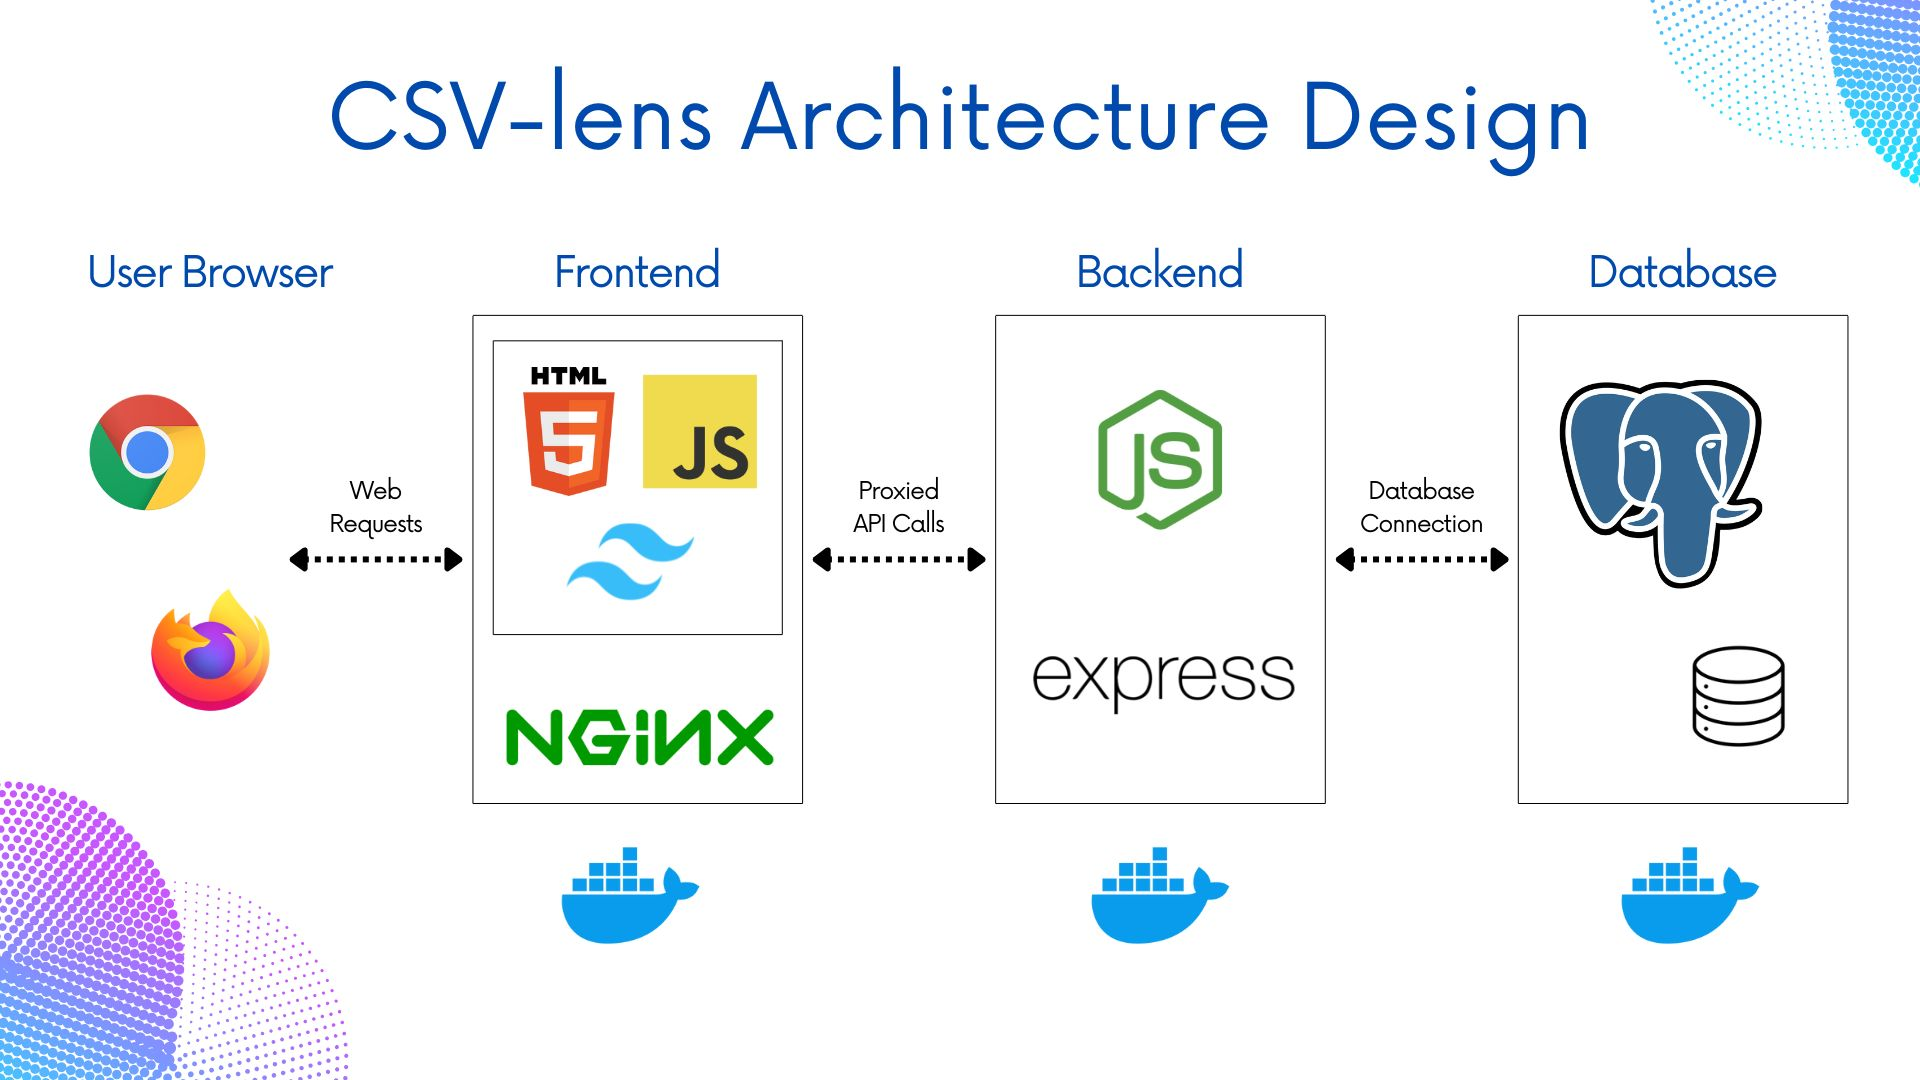
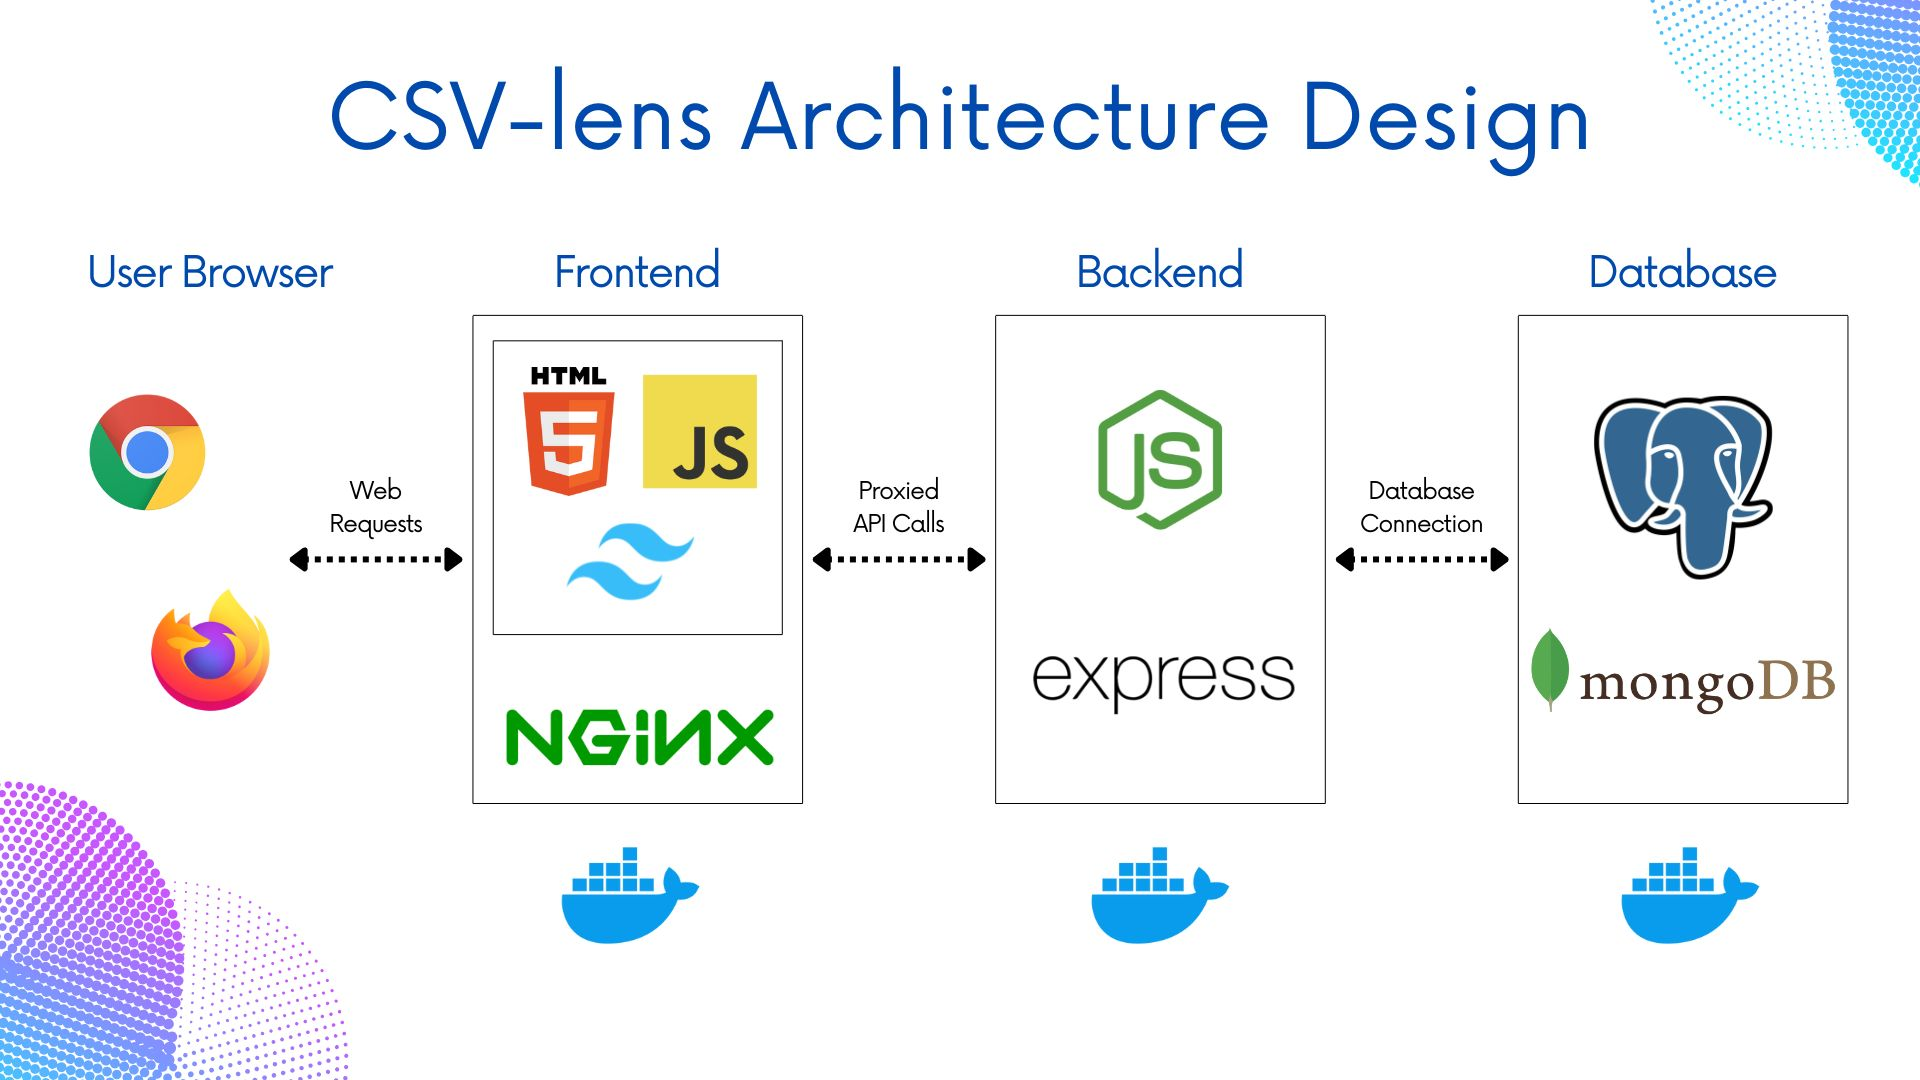
Update Frontend api fetching and README

Changed region(s): [[0.8125, 0.3361, 0.9375, 0.55], [0.7812, 0.5806, 0.9688, 0.7028]]

diff --git a/Frontend/Script/module/HandleCSV/FetchCSV.js b/Frontend/Script/module/HandleCSV/FetchCSV.js
@@ -192,7 +192,7 @@ async function updateDatasetRow(datasetId, rowNumber, rowData) {
 
     try {
         const response = await fetch(`${API_BASE_URL}/datasets/${datasetId}/rows/${rowNumber}`, {
-            method: 'PUT',
+            method: 'PATCH',
             headers: {
                 'Content-Type': 'application/json',
             },

diff --git a/README.md b/README.md
@@ -4,9 +4,13 @@
 ![GitHub repo size](https://img.shields.io/github/repo-size/ISE-S46/CSV-lens?cacheSeconds=60)
 ![GitHub Issues or Pull Requests](https://img.shields.io/github/issues/ISE-S46/CSV-lens?cacheSeconds=60)
 ![GitHub Issues or Pull Requests](https://img.shields.io/github/issues-pr/ISE-S46/CSV-lens?cacheSeconds=60)
-![Version](https://img.shields.io/badge/version-1.0-blue)
+![Version](https://img.shields.io/badge/version-1.0.1-blue)
 
 **CSV-lens** is a full-stack web application for uploading, viewing, and analyzing CSV data directly in your browser.
+
+
+#### Update
+- Convert csv_data table to dedicated mongodb database (1.0.1)
 
 ## Table of Contents
 
